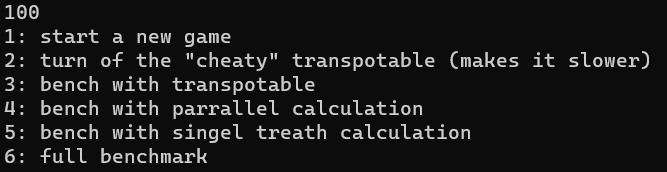
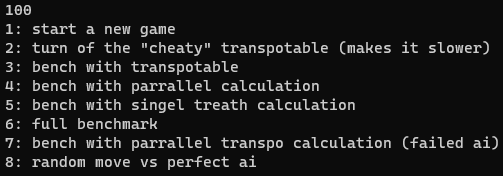
updated readme

Changed region(s): [[0.0, 0.0291, 1.0, 0.9593]]

diff --git a/README.md b/README.md
@@ -13,7 +13,7 @@ the engine is played with the numpad. it is very self explaining.
 - I play on square 5
 - My move is on the board
 - The engine answers 
-- The engine give back his evaluation (0 = draw, 1 = X is winning, -1 = O is winning)
+- The engine give back his evaluation (0 = draw, 10 = X is winning, -10 = O is winning)
 
 **good luck**
 ## menu 
@@ -33,6 +33,5 @@ If you type **100** you enter the menu.
 	- all the ai from a startup config and a blank board
 	- all the ai with a second move
 	- the ai's (running) from startup
-- option 7: hidden option that benches multithreated transpo ai (this one was a fail because it is slower then single thread transpo)
-
-## !! happy now BinaryPilot !!
+- option 7: benches multithreated transpo ai (this one was a fail because it is slower then single thread transpo)
+- option 8: allows you to let the ai play vs a random move generator and see the results
